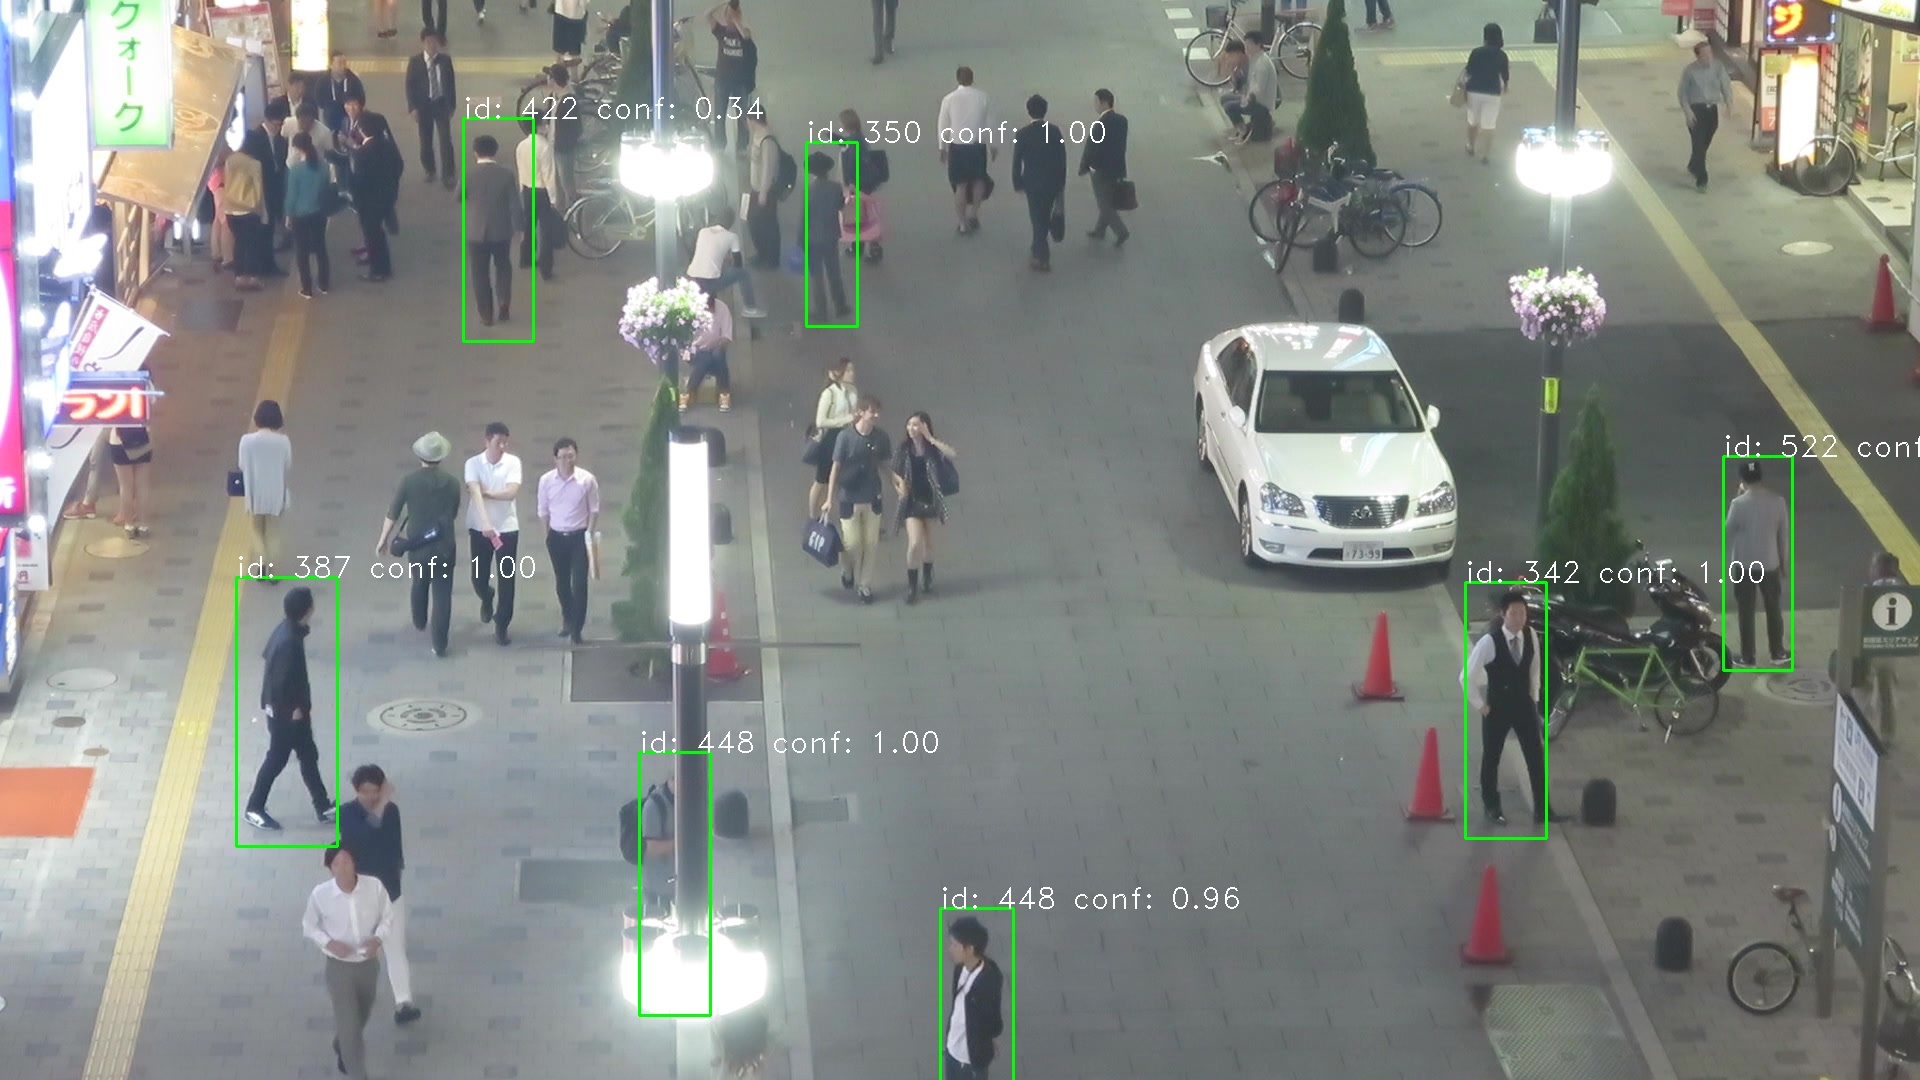
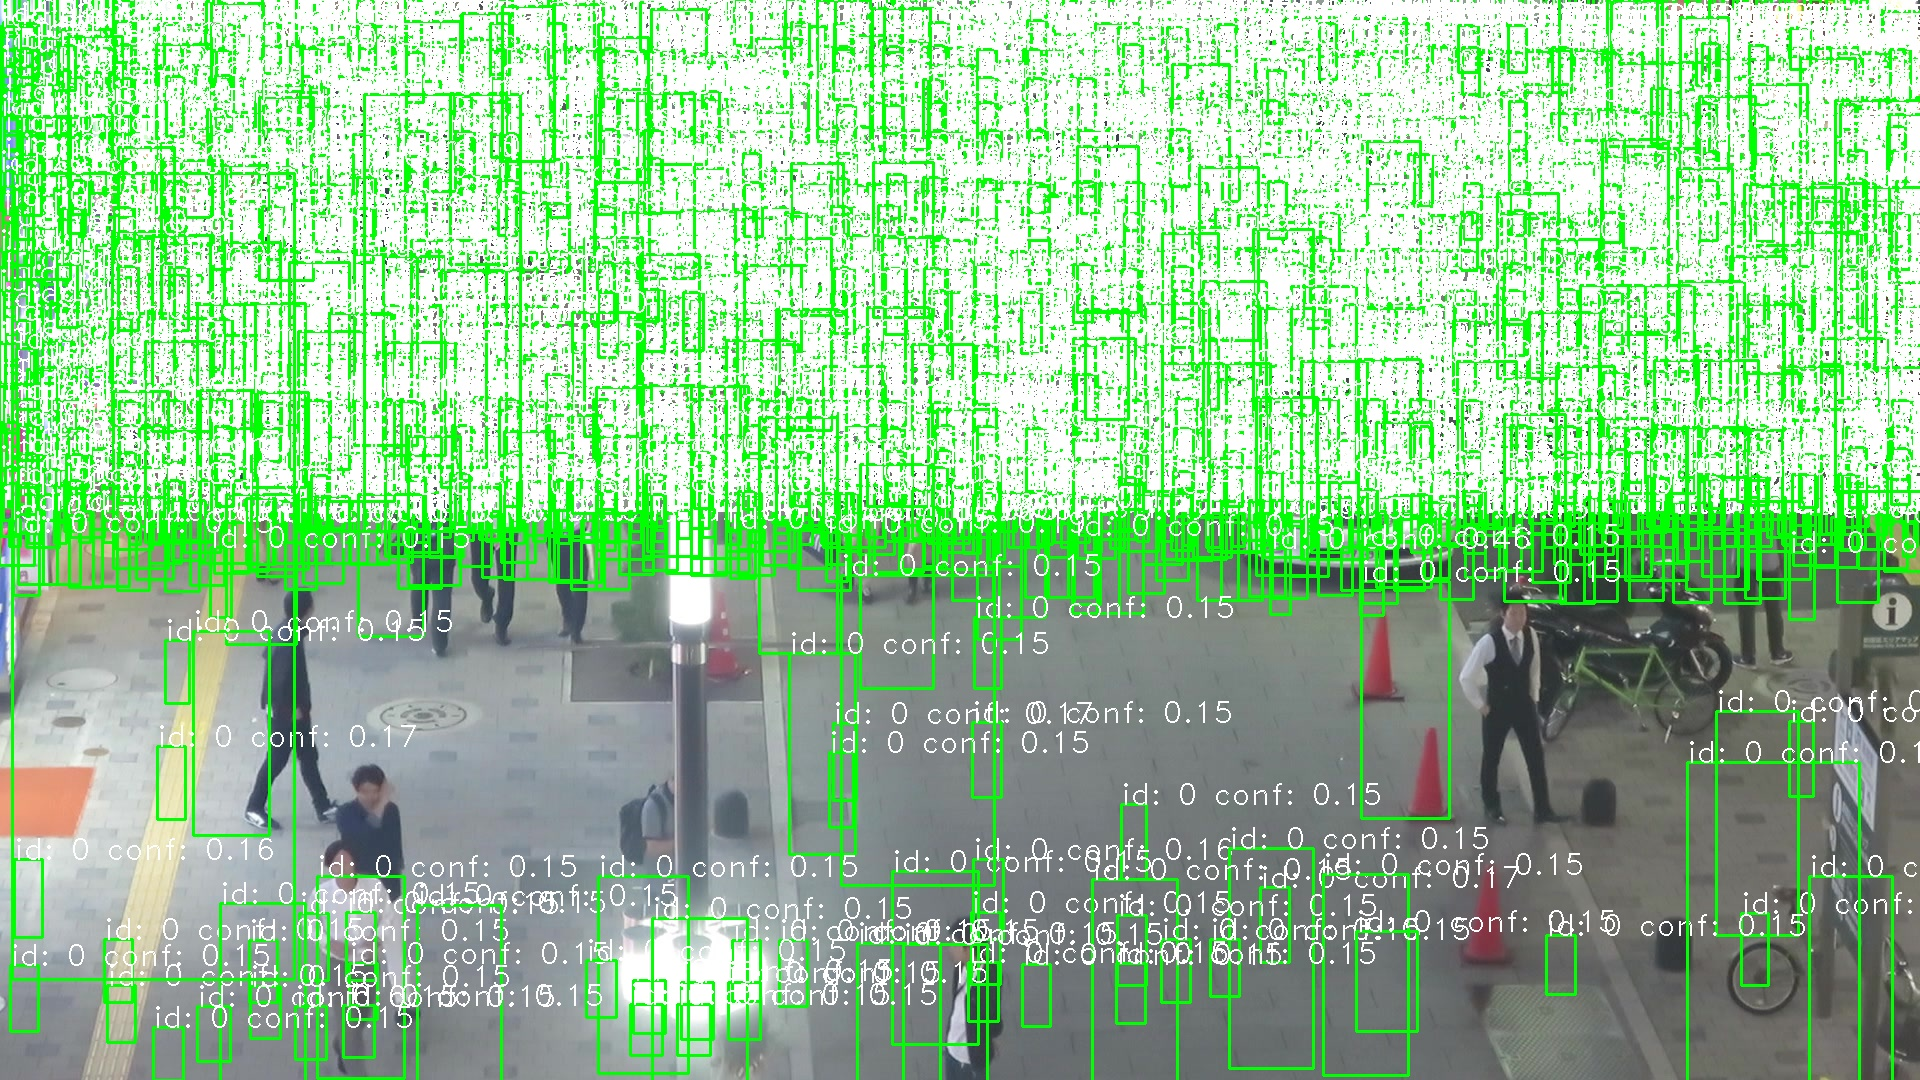
add

diff --git a/tracking/inference.py b/tracking/inference.py
@@ -18,13 +18,13 @@ from utils.prior_box import PriorBox
 
 
 parser = argparse.ArgumentParser()
-parser.add_argument('--trained_model', default='../epoch_17_loss_0.5424529314041138.pth',
+parser.add_argument('--trained_model', default='epoch_10_loss_3.758502721786499.pth',
                     type=str, help='Trained state_dict file path to open')
 parser.add_argument('--confidence_threshold', default=0.1,
                     type=float, help='confidence_threshold')
-parser.add_argument('--nms_threshold', default=0.3,
+parser.add_argument('--nms_threshold', default=0.4,
                     type=float, help='nms_threshold')
-parser.add_argument('--vis_thres', default=0.1, type=float,
+parser.add_argument('--vis_thres', default=0.15, type=float,
                     help='visualization_threshold')
 parser.add_argument('--image', default='images/000025.jpg',
                     help='test image path')

diff --git a/tracking/train.py b/tracking/train.py
@@ -30,12 +30,12 @@ epochs = CFG['epoch']
 
 
 def train(model, train_loader):
-    # optimizer = optim.SGD(model.parameters(), lr=0.001, momentum=0.9, weight_decay=5e-4)
-    optimizer = optim.Adam(model.parameters(), lr=0.005, weight_decay=5e-4)
+    optimizer = optim.SGD(model.parameters(), lr=0.01, momentum=0.9, weight_decay=5e-4)
+    # optimizer = optim.Adam(model.parameters(), lr=0.01, weight_decay=5e-4)
     scheduler = torch.optim.lr_scheduler.MultiStepLR(
         optimizer,
         milestones=[
-            int(0.05 * epochs),
+            int(0.1 * epochs),
             int(0.5 * epochs),
             int(0.75 * epochs)
         ],
